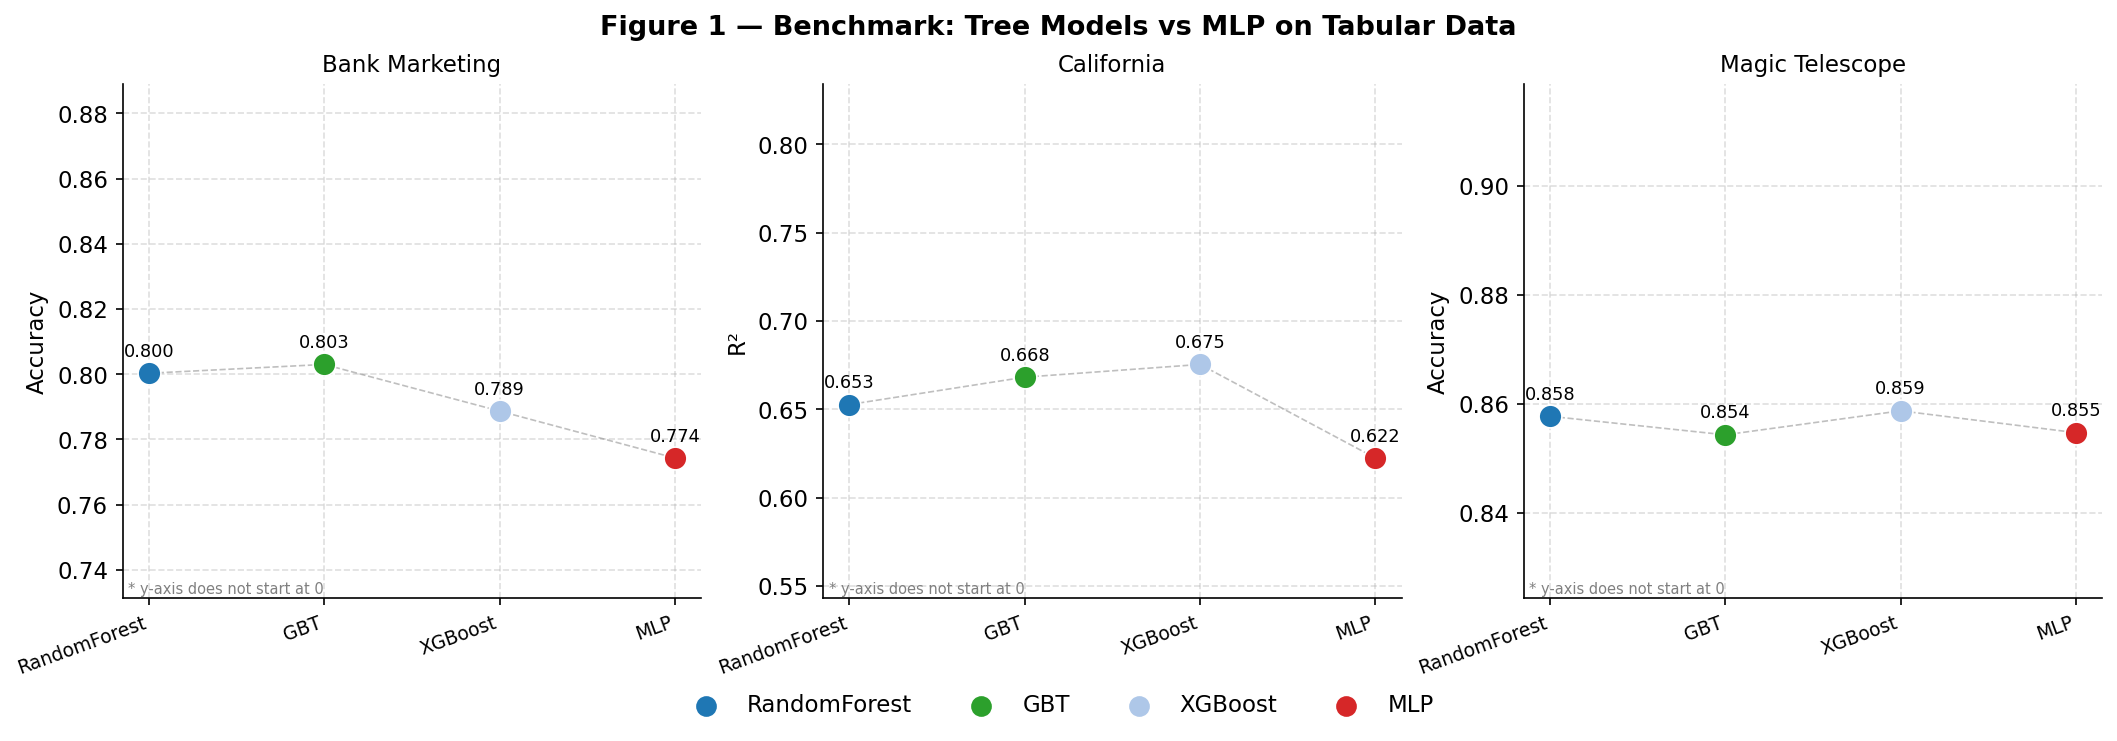
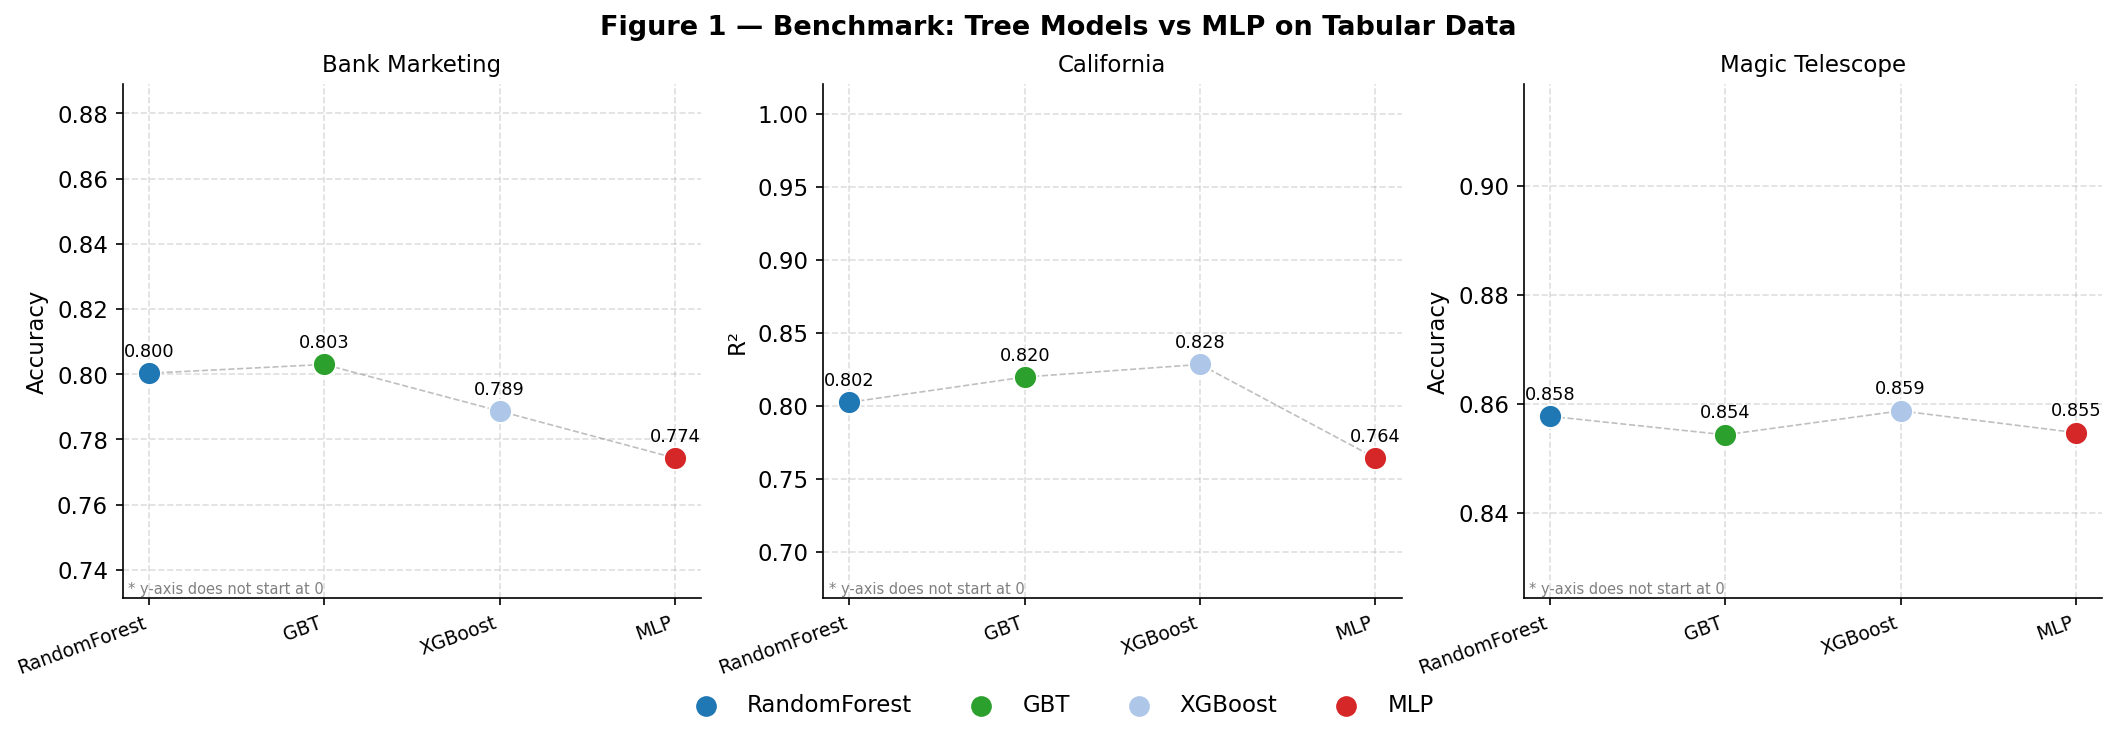
visualize.py: scale figures to arbitrary dataset count

diff --git a/visualize.py b/visualize.py
@@ -4,53 +4,63 @@ import matplotlib.pyplot as plt
 import matplotlib.ticker as ticker
 from matplotlib.lines import Line2D
 
-# ── Color palette — blue/orange, color-blind safe ─────────────────────────────
-COLORS = {
-    "RandomForest": "#1f77b4",
-    "GBT":          "#1f77b4",   # blue  (tree family)
-    "XGBoost":      "#aec7e8",   # light blue (tree family)
-    "MLP":          "#d62728",   # red   (neural net)
-}
-
 # Two-model color scheme used in findings 2 and 3
-C_GBT = "#1f77b4"   # blue
-C_MLP = "#d62728"   # red
+C_GBT = "#1f77b4"  # blue
+C_MLP = "#d62728"  # red
 
 # ── Shared style ──────────────────────────────────────────────────────────────
 plt.rcParams.update({
-    "figure.dpi":        150,
-    "font.size":         11,
-    "axes.spines.top":   False,
+    "figure.dpi": 150,
+    "font.size": 11,
+    "axes.spines.top": False,
     "axes.spines.right": False,
-    "axes.grid":         True,
-    "grid.linestyle":    "--",
-    "grid.alpha":        0.4,
+    "axes.grid": True,
+    "grid.linestyle": "--",
+    "grid.alpha": 0.4,
 })
 
 DATASET_LABELS = {
-    "bank_marketing":  "Bank Marketing",
-    "california":      "California",
+    "bank_marketing": "Bank Marketing",
+    "california": "California",
     "magic_telescope": "Magic Telescope",
 }
+
+# Per-panel width, derived from the original fixed 3-panel figsize (14, ...).
+# Scaling total figure width by this constant keeps today's 3-dataset figures
+# unchanged while extending cleanly to any number of datasets.
+BASE_FIG_WIDTH = 14
+BASE_DATASETS = 3
+
+PANEL_WIDTH = BASE_FIG_WIDTH / BASE_DATASETS
+
+def _label(name):
+    """Dataset display name for plot titles. Falls back to a readable
+    auto-generated label for any dataset not yet in DATASET_LABELS, instead
+    of the old DATASET_LABELS[name], which raised KeyError the moment a
+    dataset without a matching entry showed up."""
+    return DATASET_LABELS.get(name, name.replace("_", " ").title())
 
 
 # ── Figure 1: Benchmark — dot plot, broken y-axis ────────────────────────────
 def plot_benchmark():
     df = pd.read_csv("benchmark_results.csv")
     datasets = df["dataset"].unique()
-    models   = ["RandomForest", "GBT", "XGBoost", "MLP"]
+    n_datasets = len(datasets)
+    models = ["RandomForest", "GBT", "XGBoost", "MLP"]
+
     # Tree models share the blue family; MLP is red
     dot_colors = ["#1f77b4", "#2ca02c", "#aec7e8", "#d62728"]
 
-    fig, axes = plt.subplots(1, 3, figsize=(14, 4.5),
-                             constrained_layout=True)
+    fig, axes = plt.subplots(1, n_datasets, figsize=(PANEL_WIDTH * n_datasets, 4.5),
+                              constrained_layout=True)
+    axes = np.atleast_1d(axes)
     fig.suptitle(
         "Figure 1 — Benchmark: Tree Models vs MLP on Tabular Data",
         fontsize=13, fontweight="bold"
     )
 
     for ax, name in zip(axes, datasets):
-        sub    = df[df["dataset"] == name]
+        sub = df[df["dataset"] == name]
         metric = sub["metric"].iloc[0]
         scores = [sub[sub["model"] == m]["score"].values[0] for m in models]
 
@@ -59,30 +69,30 @@ def plot_benchmark():
             ax.scatter(i, score, color=color, s=120, zorder=4,
                        edgecolors="white", linewidths=0.8)
             ax.annotate(f"{score:.3f}",
-                        xy=(i, score), xytext=(0, 8),
-                        textcoords="offset points",
-                        ha="center", fontsize=8.5)
+                       xy=(i, score), xytext=(0, 8),
+                       textcoords="offset points",
+                       ha="center", fontsize=8.5)
 
         # Draw a faint horizontal line connecting all dots for readability
         ax.plot(range(len(models)), scores,
-                color="gray", linewidth=0.8, linestyle="--",
-                zorder=2, alpha=0.5)
+               color="gray", linewidth=0.8, linestyle="--",
+               zorder=2, alpha=0.5)
 
         # Non-zero y-axis: show meaningful range only
         # Pad by 15% of the score range above and below
         lo, hi = min(scores), max(scores)
-        pad = max((hi - lo) * 1.5, 0.03)   # at least 0.03 padding
+        pad = max((hi - lo) * 1.5, 0.03)  # at least 0.03 padding
         ax.set_ylim(lo - pad, hi + pad * 2)
 
-        ax.set_title(DATASET_LABELS[name], fontsize=11)
+        ax.set_title(_label(name), fontsize=11)
         ax.set_ylabel(metric)
         ax.set_xticks(range(len(models)))
         ax.set_xticklabels(models, rotation=20, ha="right", fontsize=9)
 
         # Explicit axis-break note — scientific honesty
         ax.annotate("* y-axis does not start at 0",
-                    xy=(0.01, 0.01), xycoords="axes fraction",
-                    fontsize=7, color="gray")
+                   xy=(0.01, 0.01), xycoords="axes fraction",
+                   fontsize=7, color="gray")
 
     # Shared legend
     handles = [
@@ -90,8 +100,8 @@ def plot_benchmark():
         for m, c in zip(models, dot_colors)
     ]
     fig.legend(handles=handles, labels=models,
-               loc="lower center", ncol=4,
-               bbox_to_anchor=(0.5, -0.08), frameon=False)
+              loc="lower center", ncol=4,
+              bbox_to_anchor=(0.5, -0.08), frameon=False)
 
     plt.savefig("fig1_benchmark.png", bbox_inches="tight")
     print("Saved fig1_benchmark.png")
@@ -102,17 +112,19 @@ def plot_benchmark():
 def plot_finding2():
     df = pd.read_csv("finding2_results.csv")
     datasets = df["dataset"].unique()
+    n_datasets = len(datasets)
 
-    fig, axes = plt.subplots(1, 3, figsize=(14, 4.5),
-                             constrained_layout=True)
+    fig, axes = plt.subplots(1, n_datasets, figsize=(PANEL_WIDTH * n_datasets, 4.5),
+                              constrained_layout=True)
+    axes = np.atleast_1d(axes)
     fig.suptitle(
         "Figure 2 — Finding 2: MLP Degrades More Under Uninformative Features",
         fontsize=13, fontweight="bold"
     )
 
     for ax, name in zip(axes, datasets):
-        sub    = df[df["dataset"] == name]
-        task   = sub["task"].iloc[0]
+        sub = df[df["dataset"] == name]
+        task = sub["task"].iloc[0]
         metric = "Accuracy" if task == "classification" else "R²"
 
         for mname, col_m, col_s, color in [
@@ -120,8 +132,8 @@ def plot_finding2():
             ("MLP", "MLP_mean", "MLP_std", C_MLP),
         ]:
             ax.plot(sub["n_noise"], sub[col_m],
-                    marker="o", color=color, label=mname,
-                    linewidth=2, zorder=3)
+                   marker="o", color=color, label=mname,
+                   linewidth=2, zorder=3)
             ax.fill_between(
                 sub["n_noise"],
                 sub[col_m] - sub[col_s],
@@ -133,15 +145,15 @@ def plot_finding2():
         for col_m, color, va in [("GBT_mean", C_GBT, "top"),
                                   ("MLP_mean", C_MLP, "bottom")]:
             start = sub[sub["n_noise"] == 0][col_m].values[0]
-            end   = sub[sub["n_noise"] == 50][col_m].values[0]
-            drop  = start - end
+            end = sub[sub["n_noise"] == 50][col_m].values[0]
+            drop = start - end
             ax.annotate(f"Δ={drop:.3f}",
-                        xy=(50, end),
-                        xytext=(-28, 8 if va == "bottom" else -14),
-                        textcoords="offset points",
-                        fontsize=8, color=color)
+                       xy=(50, end),
+                       xytext=(-28, 8 if va == "bottom" else -14),
+                       textcoords="offset points",
+                       fontsize=8, color=color)
 
-        ax.set_title(DATASET_LABELS[name], fontsize=11)
+        ax.set_title(_label(name), fontsize=11)
         ax.set_xlabel("Noise features added")
         ax.set_ylabel(metric)
         ax.legend(frameon=False, fontsize=9)
@@ -158,70 +170,72 @@ def plot_finding2():
 def plot_finding3():
     df = pd.read_csv("finding3_results.csv")
     datasets = df["dataset"].unique()
+    n_datasets = len(datasets)
 
-    fig, axes = plt.subplots(1, 3, figsize=(14, 5),
-                             constrained_layout=True)
+    fig, axes = plt.subplots(1, n_datasets, figsize=(PANEL_WIDTH * n_datasets, 5),
+                              constrained_layout=True)
+    axes = np.atleast_1d(axes)
     fig.suptitle(
         "Figure 3 — Finding 3: Trees Are Sensitive to Rotation, MLP Is Not",
         fontsize=13, fontweight="bold"
     )
 
     for ax, name in zip(axes, datasets):
-        sub    = df[df["dataset"] == name]
-        task   = sub["task"].iloc[0]
+        sub = df[df["dataset"] == name]
+        task = sub["task"].iloc[0]
         metric = "Accuracy" if task == "classification" else "R²"
 
         orig = sub[sub["setting"] == "original"].iloc[0]
-        rot  = sub[sub["setting"] == "rotated"].iloc[0]
+        rot = sub[sub["setting"] == "rotated"].iloc[0]
 
-        x = [0, 1]   # original=0, rotated=1
+        x = [0, 1]  # original=0, rotated=1
 
         for mname, col_m, col_s, color in [
             ("GBT", "GBT_mean", "GBT_std", C_GBT),
             ("MLP", "MLP_mean", "MLP_std", C_MLP),
         ]:
             y_orig = orig[col_m]
-            y_rot  = rot[col_m]
+            y_rot = rot[col_m]
             e_orig = orig[col_s]
-            e_rot  = rot[col_s]
+            e_rot = rot[col_s]
 
             # Connecting line — slope tells the story
             ax.plot(x, [y_orig, y_rot],
-                    color=color, linewidth=2.5, zorder=3,
-                    label=mname,
-                    marker="o", markersize=8,
-                    markerfacecolor="white", markeredgewidth=2)
+                   color=color, linewidth=2.5, zorder=3,
+                   label=mname,
+                   marker="o", markersize=8,
+                   markerfacecolor="white", markeredgewidth=2)
 
             # Error bars at each endpoint
             ax.errorbar([0], [y_orig], yerr=[e_orig],
-                        fmt="none", color=color,
-                        capsize=4, linewidth=1.5, zorder=4)
+                       fmt="none", color=color,
+                       capsize=4, linewidth=1.5, zorder=4)
             ax.errorbar([1], [y_rot], yerr=[e_rot],
-                        fmt="none", color=color,
-                        capsize=4, linewidth=1.5, zorder=4)
+                       fmt="none", color=color,
+                       capsize=4, linewidth=1.5, zorder=4)
 
             # Annotate values
             ax.text(-0.08, y_orig, f"{y_orig:.3f}",
-                    ha="right", va="center", fontsize=8, color=color)
+                   ha="right", va="center", fontsize=8, color=color)
             ax.text(1.08, y_rot, f"{y_rot:.3f}",
-                    ha="left", va="center", fontsize=8, color=color)
+                   ha="left", va="center", fontsize=8, color=color)
 
             # Annotate the change
             delta = y_rot - y_orig
-            sign  = "+" if delta >= 0 else ""
+            sign = "+" if delta >= 0 else ""
             mid_y = (y_orig + y_rot) / 2
             ax.text(0.5, mid_y, f"{sign}{delta:.3f}",
-                    ha="center", va="bottom", fontsize=8,
-                    color=color, style="italic")
+                   ha="center", va="bottom", fontsize=8,
+                   color=color, style="italic")
 
         # Non-zero y-axis
         all_vals = [orig["GBT_mean"], orig["MLP_mean"],
-                    rot["GBT_mean"],  rot["MLP_mean"]]
+                   rot["GBT_mean"], rot["MLP_mean"]]
         lo, hi = min(all_vals), max(all_vals)
         pad = max((hi - lo) * 1.2, 0.03)
         ax.set_ylim(lo - pad, hi + pad)
 
-        ax.set_title(DATASET_LABELS[name], fontsize=11)
+        ax.set_title(_label(name), fontsize=11)
         ax.set_ylabel(metric)
         ax.set_xticks([0, 1])
         ax.set_xticklabels(["Original", "Rotated"], fontsize=10)
@@ -229,8 +243,8 @@ def plot_finding3():
         ax.legend(frameon=False, loc="upper right", fontsize=9)
 
         ax.annotate("* y-axis does not start at 0",
-                    xy=(0.01, 0.01), xycoords="axes fraction",
-                    fontsize=7, color="gray")
+                   xy=(0.01, 0.01), xycoords="axes fraction",
+                   fontsize=7, color="gray")
 
     plt.savefig("fig3_finding3.png", bbox_inches="tight")
     print("Saved fig3_finding3.png")
